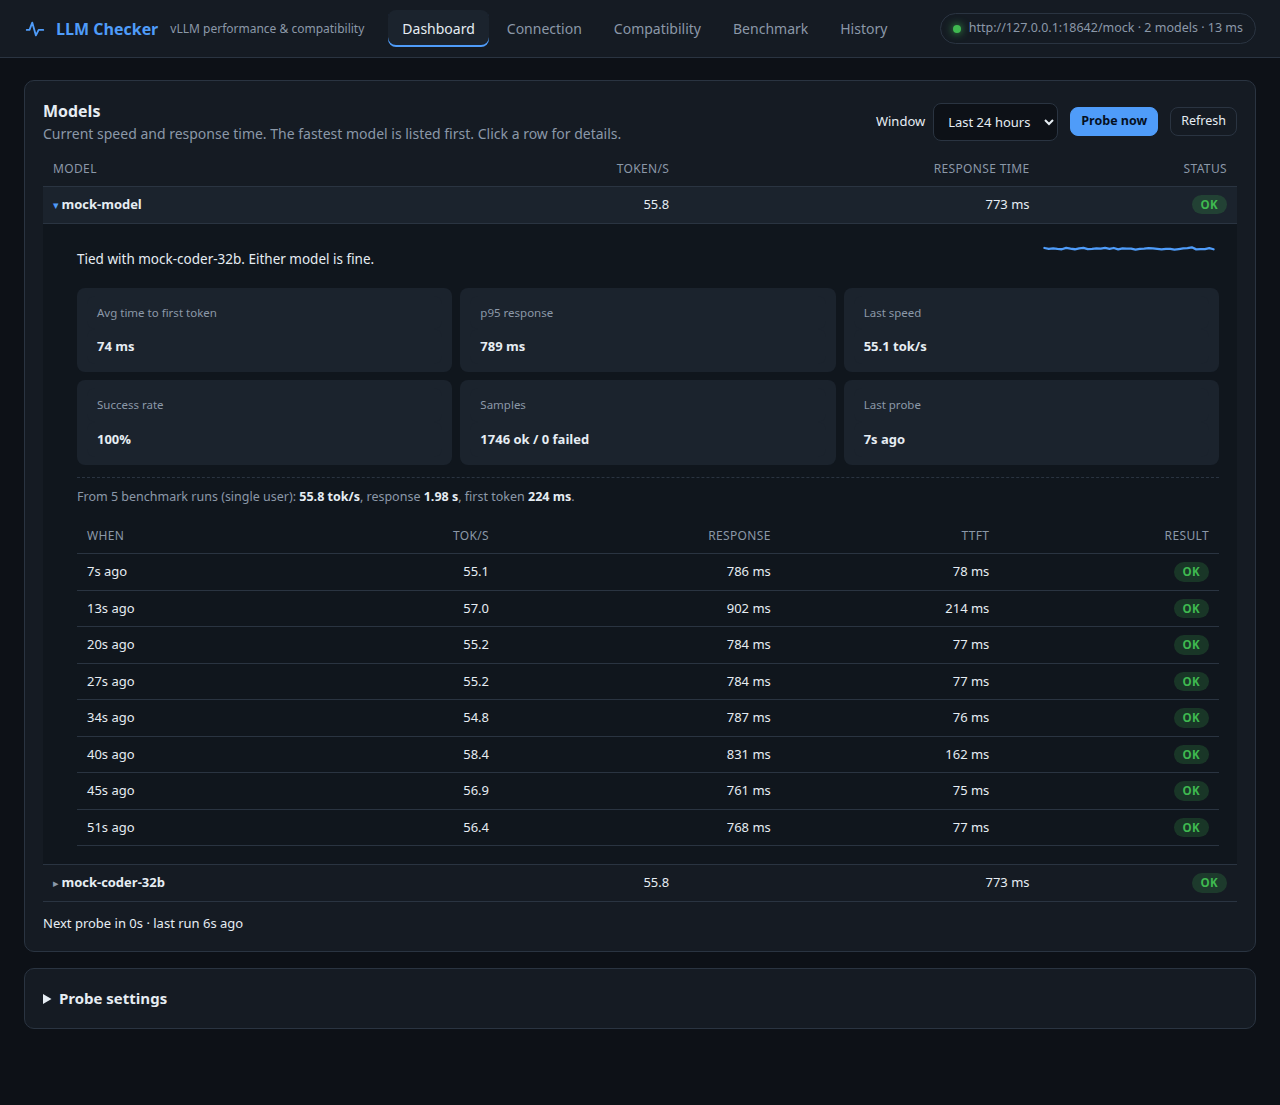
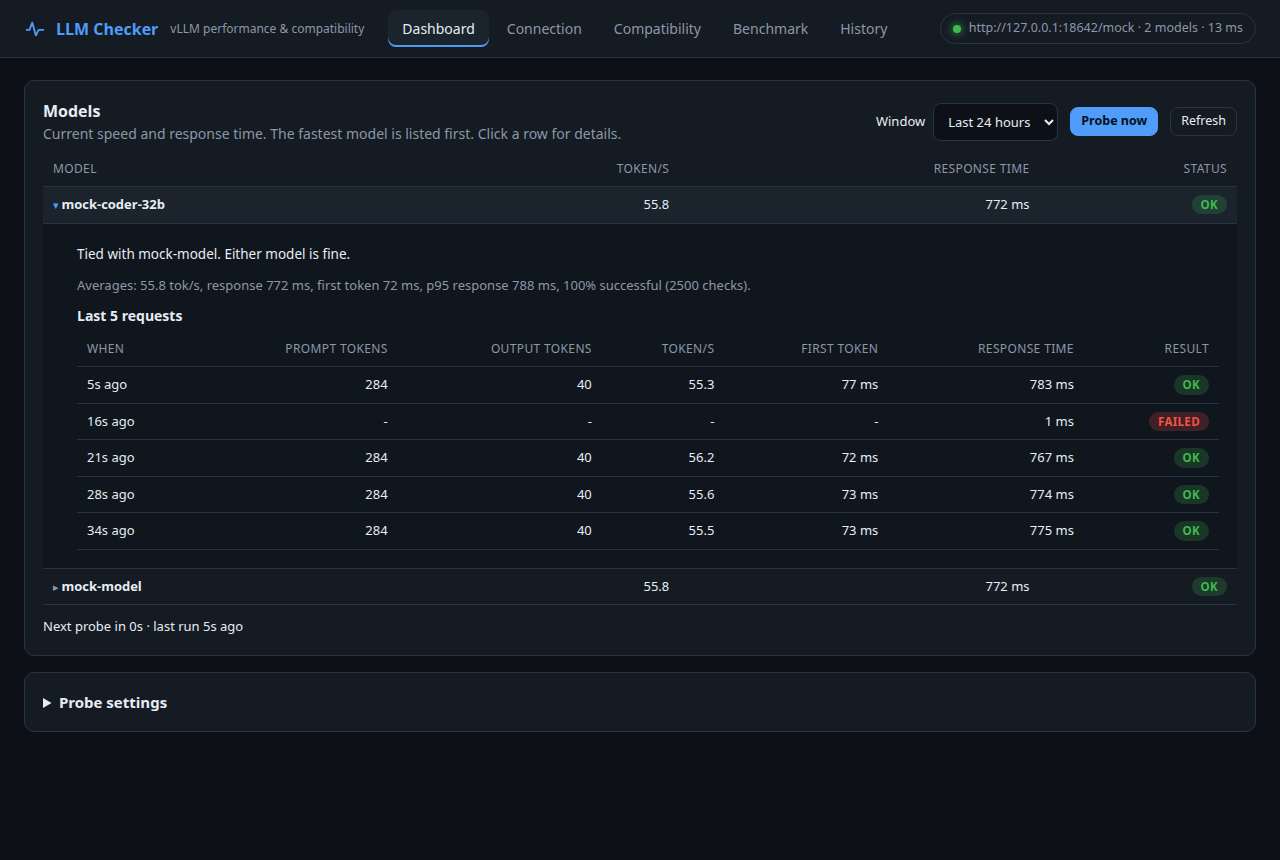
Default model checks to 15 minutes and show the last 5 requests

diff --git a/src/main/resources/static/app.js b/src/main/resources/static/app.js
@@ -596,22 +596,27 @@ function modelRowsHtml(m, fastest, rows) {
       <td>${statusBadge(m)}</td></tr>`;
   if (!open) return main;
   const p = m.probe, b = m.bench;
-  const recent = dash.samples.filter((s) => s.model === m.model).slice(-8).reverse();
-  const recentHtml = recent.length ? `<div class="table-wrap" style="margin-top:12px"><table><thead><tr>
-      <th class="left">When</th><th>tok/s</th><th>Response</th><th>TTFT</th><th>Result</th></tr></thead><tbody>${recent.map((s) => `<tr>
-      <td class="left">${ago(s.ts)}</td><td class="num">${fmt.n(s.decodeTps, 1)}</td><td class="num">${fmt.ms(s.totalMs)}</td><td class="num">${fmt.ms(s.ttftMs)}</td>
-      <td>${s.ok ? '<span class="badge pass">ok</span>' : `<span class="badge fail" title="${esc(s.error)}">failed</span>`}</td></tr>`).join("")}</tbody></table></div>` : "";
-  const bench = b ? `<p class="bench-line">From ${b.runs} benchmark run${b.runs === 1 ? "" : "s"} (single user): <b>${fmt.n(b.avgTps, 1)} tok/s</b>, response <b>${fmt.ms(b.avgResponseMs)}</b>, first token <b>${fmt.ms(b.avgTtftMs)}</b>.</p>` : "";
-  return main + `<tr class="detail-row"><td colspan="4"><div class="detail-head"><p class="advice">${esc(switchAdvice(m, rows))}</p>
-      ${sparkline(dash.samples.filter((s) => s.model === m.model && s.ok && s.decodeTps != null).map((s) => s.decodeTps), "#4f9cf9")}</div>
-      <div class="mini">
-        <div><div class="k">Avg time to first token</div><div class="v">${fmt.ms(p?.avgTtftMs ?? b?.avgTtftMs)}</div></div>
-        <div><div class="k">p95 response</div><div class="v">${fmt.ms(p?.p95ResponseMs)}</div></div>
-        <div><div class="k">Last speed</div><div class="v">${p?.lastTps != null ? fmt.n(p.lastTps, 1) + " tok/s" : "-"}</div></div>
-        <div><div class="k">Success rate</div><div class="v">${p ? fmt.pct(p.successRate) : "-"}</div></div>
-        <div><div class="k">Samples</div><div class="v">${p ? p.samples - p.failures + " ok / " + p.failures + " failed" : "-"}</div></div>
-        <div><div class="k">Last probe</div><div class="v">${p ? ago(p.lastAt) : "-"}</div></div>
-      </div>${bench}${recentHtml}</td></tr>`;
+  const recent = dash.samples.filter((s) => s.model === m.model).slice(-5).reverse();
+  const averages = p
+    ? `Averages: ${fmt.n(p.avgTps, 1)} tok/s, response ${fmt.ms(p.avgResponseMs)}, first token ${fmt.ms(p.avgTtftMs)}, p95 response ${fmt.ms(p.p95ResponseMs)}, ${fmt.pct(p.successRate)} successful (${p.samples} checks).`
+    : "No probe averages in this window yet.";
+  const recentHtml = recent.length ? `<div class="table-wrap"><table><thead><tr>
+      <th class="left">When</th><th>Prompt tokens</th><th>Output tokens</th><th>Token/s</th><th>First token</th><th>Response time</th><th>Result</th>
+    </tr></thead><tbody>${recent.map((s) => `<tr>
+      <td class="left">${ago(s.ts)}</td>
+      <td class="num">${s.promptTokens ?? "-"}</td>
+      <td class="num">${s.completionTokens ?? "-"}</td>
+      <td class="num">${fmt.n(s.decodeTps, 1)}</td>
+      <td class="num">${fmt.ms(s.ttftMs)}</td>
+      <td class="num">${fmt.ms(s.totalMs)}</td>
+      <td>${s.ok ? '<span class="badge pass">ok</span>' : `<span class="badge fail" title="${esc(s.error)}">failed</span>`}</td>
+    </tr>`).join("")}</tbody></table></div>` : `<p class="muted">No checks yet for this model.</p>`;
+  const bench = b ? `<p class="bench-line">Benchmarks (${b.runs} run${b.runs === 1 ? "" : "s"}, single user): <b>${fmt.n(b.avgTps, 1)} tok/s</b>, response <b>${fmt.ms(b.avgResponseMs)}</b>, first token <b>${fmt.ms(b.avgTtftMs)}</b>.</p>` : "";
+  return main + `<tr class="detail-row"><td colspan="4">
+      <p class="advice">${esc(switchAdvice(m, rows))}</p>
+      <p class="muted" style="margin:0 0 10px">${esc(averages)}</p>
+      <h3>Last ${recent.length} request${recent.length === 1 ? "" : "s"}</h3>
+      ${recentHtml}${bench}</td></tr>`;
 }
 
 $("modelTable").addEventListener("click", (e) => {
@@ -621,12 +626,17 @@ $("modelTable").addEventListener("click", (e) => {
   renderDashboard();
 });
 
-function sparkline(values, color) {
-  if (values.length < 2) return "";
-  const v = values.slice(-40);
-  const max = Math.max(...v) * 1.15 || 1;
-  const pts = v.map((y, i) => `${((i / (v.length - 1)) * 148 + 1).toFixed(1)},${(40 - (y / max) * 34 - 4).toFixed(1)}`).join(" ");
-  return `<svg class="spark" viewBox="0 0 150 42"><polyline points="${pts}" fill="none" stroke="${color}" stroke-width="2" stroke-linejoin="round" stroke-linecap="round"/></svg>`;
+const INTERVAL_CHOICES = [[300, "5 minutes"], [900, "15 minutes"], [1800, "30 minutes"], [3600, "1 hour"]];
+
+function fillIntervalSelect(current) {
+  const choices = INTERVAL_CHOICES.slice();
+  if (current && !choices.some(([sec]) => sec === current)) {
+    const label = current < 120 ? `${current} seconds` : `${Math.round(current / 60)} minutes`;
+    choices.unshift([current, label]);
+  }
+  $("monInterval").innerHTML = choices.map(([sec, label]) =>
+    `<option value="${sec}">${label}${sec === 900 ? " (recommended)" : ""}</option>`).join("");
+  $("monInterval").value = String(current || 900);
 }
 
 function renderMonitorModels() {
@@ -643,7 +653,7 @@ function renderMonitorPanel() {
   if (!st) return;
   if (!monitorFormDirty) {
     $("monEnabled").checked = st.config.enabled;
-    $("monInterval").value = st.config.intervalSec;
+    fillIntervalSelect(st.config.intervalSec);
     $("monProtocol").value = st.config.protocol;
     $("monPrompt").value = st.config.promptTokens;
     $("monOutput").value = st.config.outputTokens;
@@ -651,7 +661,8 @@ function renderMonitorPanel() {
   }
   const parts = [];
   if (st.config.enabled) {
-    parts.push(st.probing ? "Probing now..." : st.nextRunAt ? `Next probe in ${Math.max(0, Math.round((st.nextRunAt - Date.now()) / 1000))}s` : "Waiting for first probe");
+    const wait = st.nextRunAt ? Math.round((st.nextRunAt - Date.now()) / 1000) : null;
+    parts.push(st.probing ? "Probing now..." : wait != null ? `Next check in ${Math.max(0, wait)}s` : st.lastRunAt ? "Next check starting" : "Waiting for the first check");
     if (st.lastRunAt) parts.push(`last run ${ago(st.lastRunAt)}`);
   } else parts.push("Automatic probes are off");
   if (st.note) parts.push(st.note);

diff --git a/src/main/resources/static/index.html b/src/main/resources/static/index.html
@@ -52,10 +52,17 @@
       <details class="card" id="monitorDetails">
         <summary>Probe settings</summary>
         <form id="monitorForm">
-          <p class="muted">Sends one small request to each selected model on a schedule, so the table stays current. Probes pause while a benchmark runs.</p>
+          <p class="muted">Each check is a real generation, so 15 minutes is the default: often enough to notice a model slowing down, light enough not to load the GPU. Probes pause while a benchmark runs.</p>
           <label class="check"><input id="monEnabled" type="checkbox"> Run probes automatically</label>
           <div class="row two-col">
-            <label>Every (seconds) <input id="monInterval" type="number" min="5" max="86400" value="60"></label>
+            <label>Check every
+              <select id="monInterval">
+                <option value="300">5 minutes</option>
+                <option value="900" selected>15 minutes (recommended)</option>
+                <option value="1800">30 minutes</option>
+                <option value="3600">1 hour</option>
+              </select>
+            </label>
             <label>Protocol
               <select id="monProtocol"><option value="openai">OpenAI</option><option value="anthropic">Anthropic</option></select>
             </label>

diff --git a/src/test/kotlin/io/llmchecker/IntegrationTest.kt b/src/test/kotlin/io/llmchecker/IntegrationTest.kt
@@ -109,8 +109,13 @@ class IntegrationTest {
         val failure = runCatching { manager.start(slow) }.exceptionOrNull()
         assertTrue(failure is IllegalStateException)
         manager.cancel(first.id)
-        delay(300)
-        assertEquals("cancelled", manager.get(first.id)!!.status)
+        var status = ""
+        repeat(50) {
+            status = manager.get(first.id)!!.status
+            if (status == "cancelled") return@repeat
+            delay(100)
+        }
+        assertEquals("cancelled", status)
     }
 
     @Test

diff --git a/src/main/kotlin/io/llmchecker/Monitor.kt b/src/main/kotlin/io/llmchecker/Monitor.kt
@@ -17,7 +17,7 @@ import java.util.UUID
 @Serializable
 data class MonitorConfig(
     val enabled: Boolean = false,
-    val intervalSec: Int = 60,
+    val intervalSec: Int = 900,
     val models: List<String> = emptyList(),
     val protocol: String = "openai",
     val promptTokens: Int = 256,

diff --git a/README.md b/README.md
@@ -7,7 +7,8 @@ It is built for closed networks. The UI is plain HTML, CSS and JavaScript served
 ## Features
 
 - **Dashboard**: a table of the models on the server, sorted with the fastest first, showing average tokens/sec and response time. Click a row to expand it: time to first token, p95 response time, success rate, the recent probes, and a plain recommendation on whether switching to a faster model is worth it.
-  - **background probes**: one small uncached request per selected model on a schedule (default every 60 s), so the table shows the current situation. Probes pause automatically while a benchmark is running so they do not skew it. Probe samples are persisted under `DATA_DIR`.
+  - **background probes**: one small uncached request per selected model on a schedule (default every 15 minutes), so the table shows the current situation. Each check is a real generation, so 15 minutes keeps the GPU load small while still showing a slowdown within a workday. Probes pause automatically while a benchmark is running so they do not skew it. Probe samples are persisted under `DATA_DIR`.
+  - Expanding a model shows the averages for the window and the specs of the last 5 checks: prompt tokens, output tokens, tokens/sec, time to first token and response time.
   - benchmark history is folded in as well (the lowest-concurrency stage of each run, which is closest to what one developer experiences)
 - **Connection**: base URL, optional API key, optional "skip TLS verification" for self-signed certificates. Lists models with their max context length. Shows live vLLM state from `/metrics` (running and waiting requests, KV cache usage, prefix-cache hit rate).
 - **Compatibility checks** for what Claude Code relies on:
